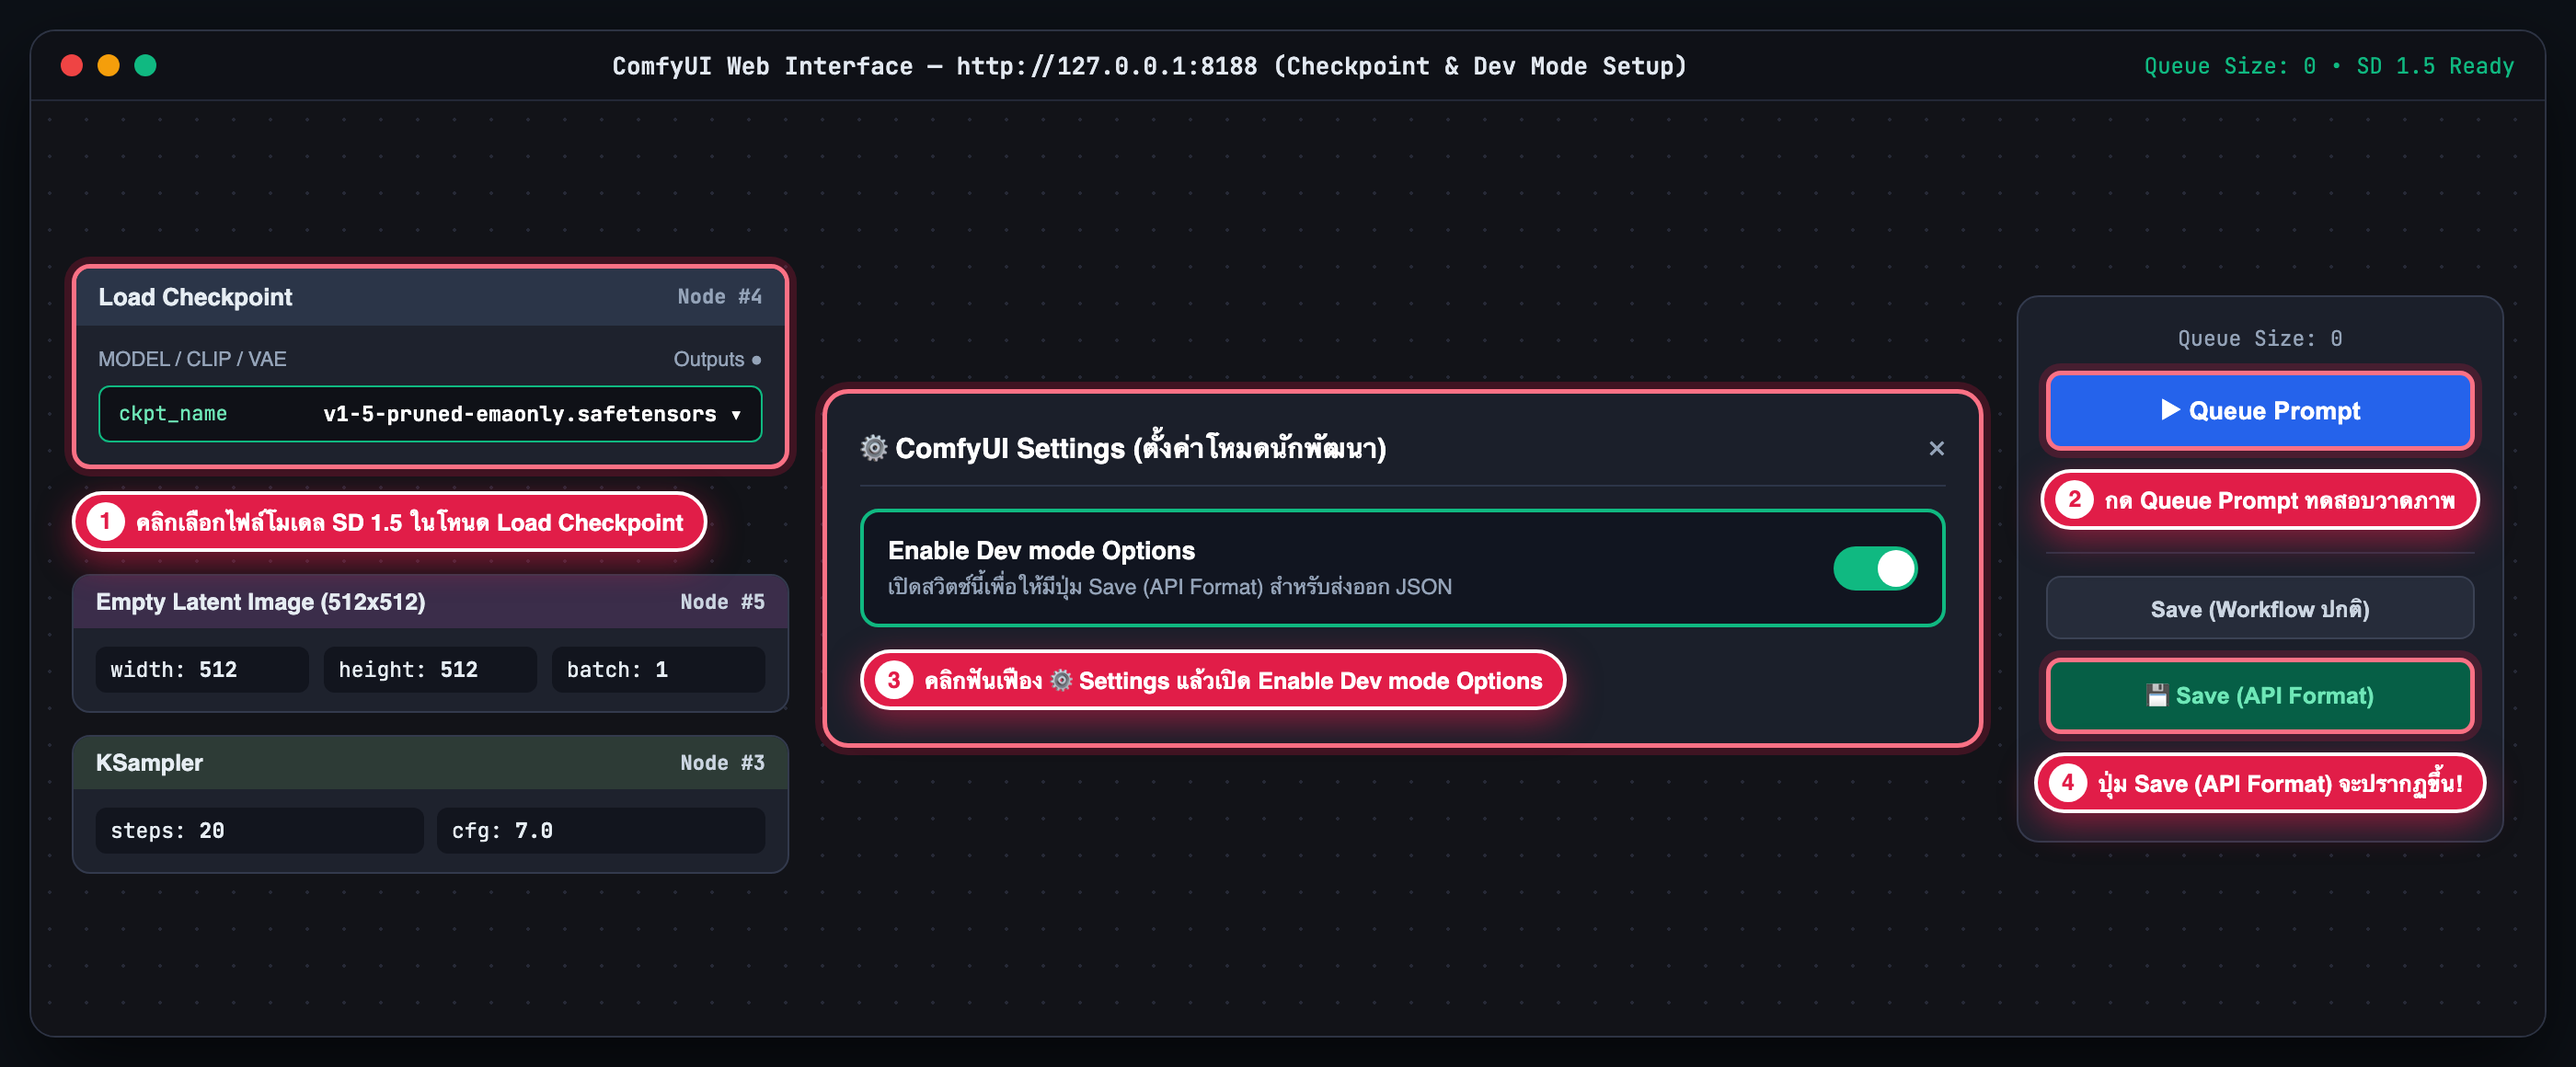
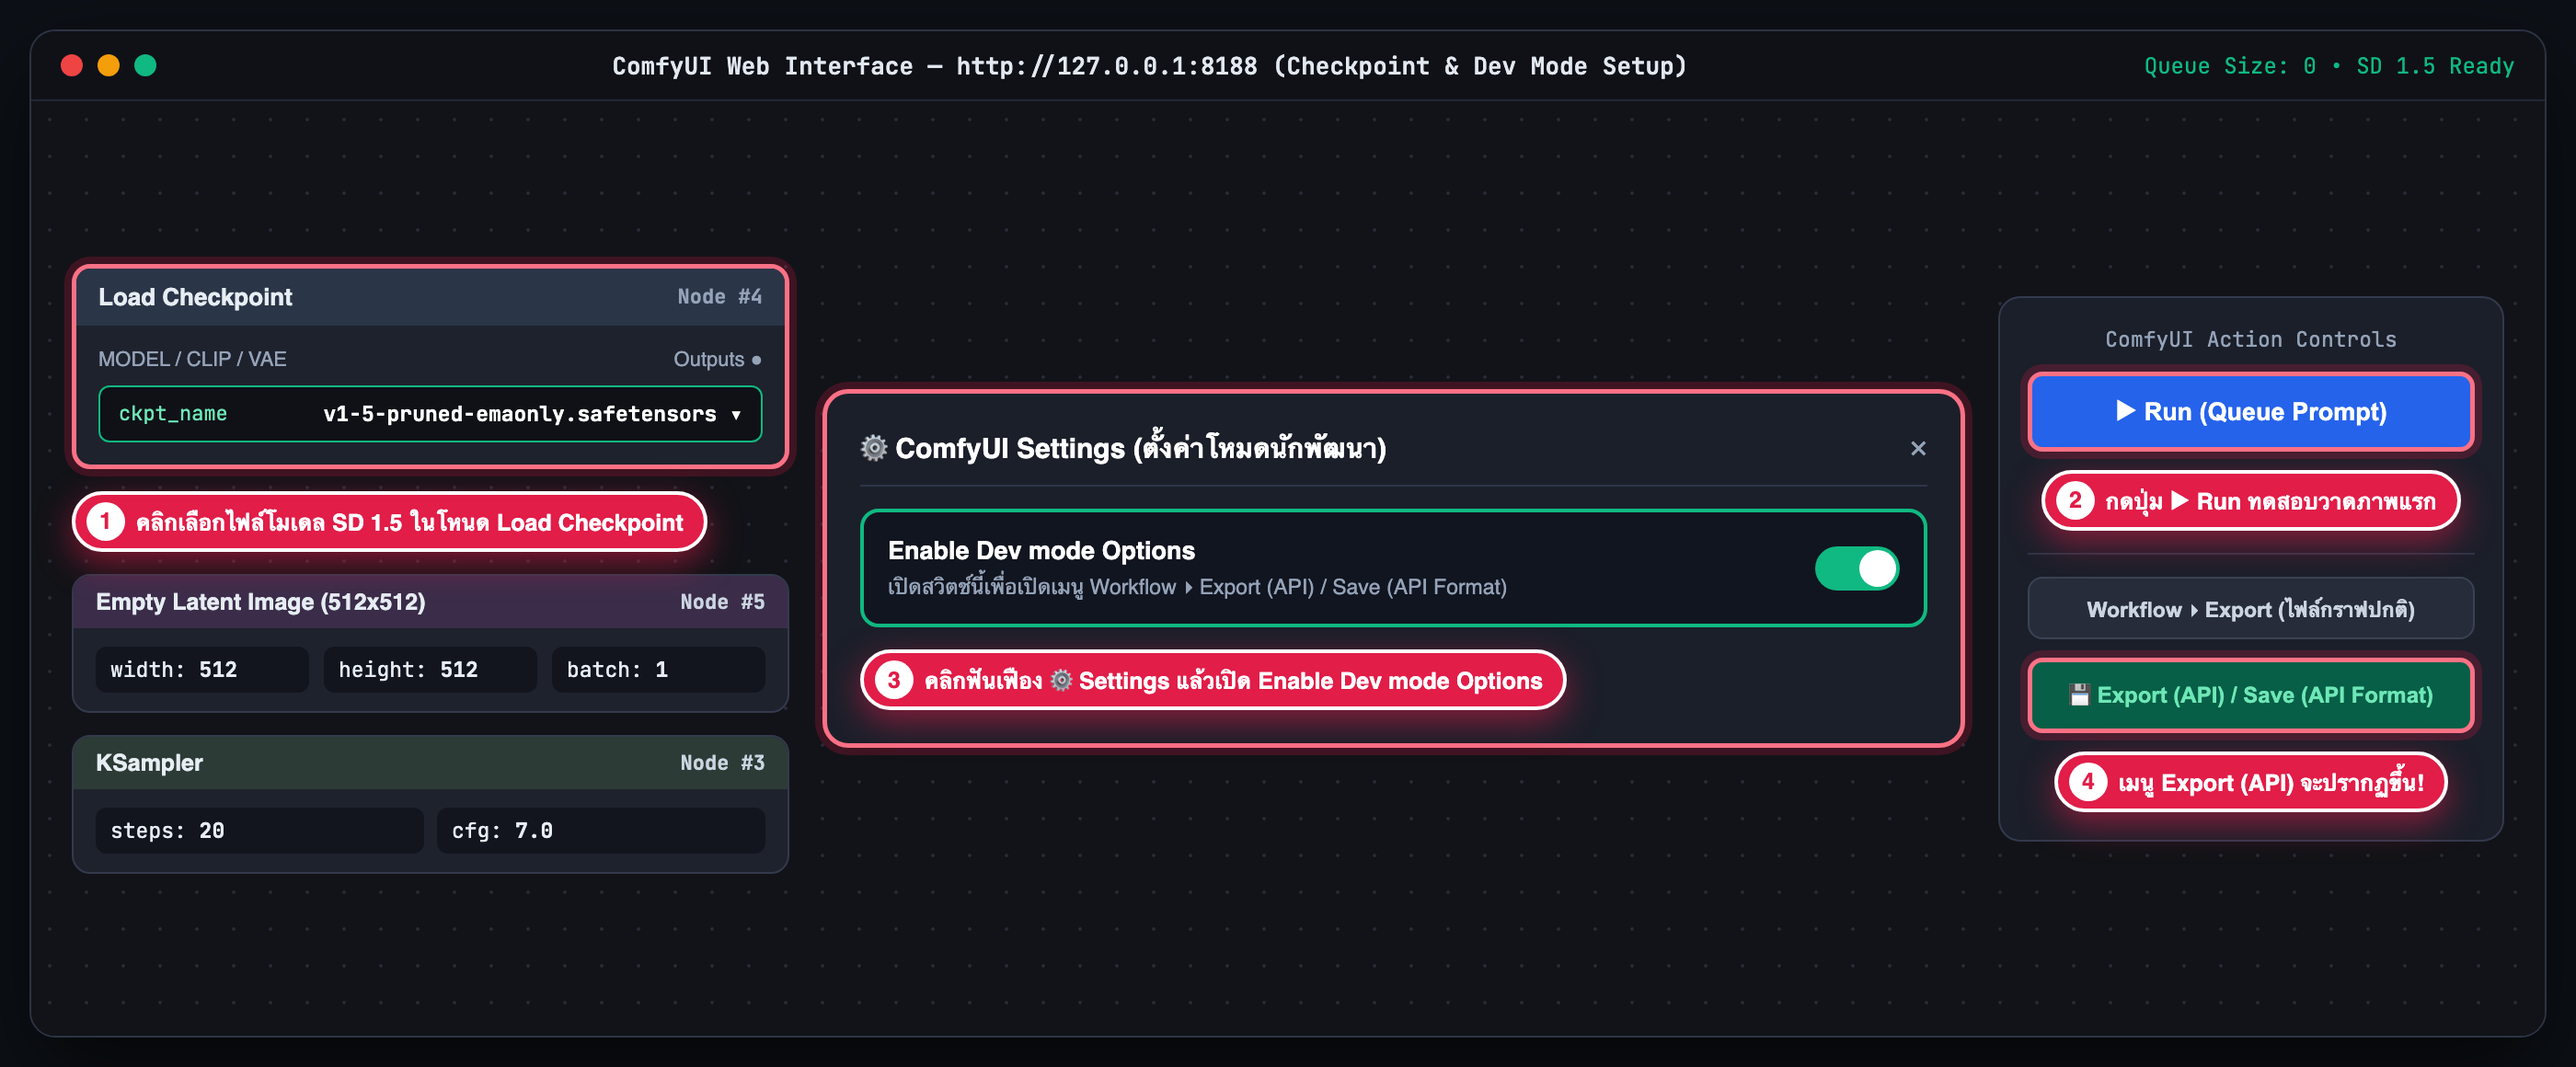
docs: update ComfyUI button labels for modern UI (Run / Workflow -> Export (API))

diff --git a/docs/index.html b/docs/index.html
@@ -1106,13 +1106,13 @@ python main.py --force-fp16</code></pre>
               <strong class="text-slate-900 dark:text-white">ตรวจสอบโหนด <code>Load Checkpoint</code> (หมายเลข <span class="text-rose-600 dark:text-rose-400">①</span>):</strong> เมื่อเปิดเบราว์เซอร์ไปที่ <code class="text-indigo-700 dark:text-indigo-300 font-semibold">http://127.0.0.1:8188</code> ให้คลิกที่ช่อง <code>ckpt_name</code> ในกล่องโหนด <strong>Load Checkpoint</strong> แล้วเลือกไฟล์ <code>v1-5-pruned-emaonly.safetensors</code> (หากเพิ่งวางไฟล์ขณะเปิดโปรแกรมอยู่ ให้กดปุ่ม <code>R</code> บนคีย์บอร์ดเพื่อ Refresh รายชื่อโมเดล)
             </li>
             <li>
-              <strong class="text-slate-900 dark:text-white">กดปุ่ม <code>Queue Prompt</code> (หรือปุ่ม <code>Run</code>) เพื่อทดสอบวาดภาพแรก (หมายเลข <span class="text-rose-600 dark:text-rose-400">②</span>):</strong> ตรวจสอบว่าการ์ดจอสามารถเรนเดอร์ภาพ <code>512x512</code> ออกมาได้ภายใน 2 ถึง 3 วินาทีโดยไม่มีข้อความแจ้งเตือนสีแดง
+              <strong class="text-slate-900 dark:text-white">กดปุ่ม <code>▶ Run</code> (หรือ <code>Queue Prompt</code> ใน UI รุ่นเก่า) เพื่อทดสอบวาดภาพแรก (หมายเลข <span class="text-rose-600 dark:text-rose-400">②</span>):</strong> คลิกปุ่ม <strong><code>▶ Run</code></strong> (หรือกดคีย์ลัด <code>Ctrl + Enter</code>) เพื่อตรวจสอบว่าการ์ดจอสามารถเรนเดอร์ภาพ <code>512x512</code> ออกมาได้ภายใน 2 ถึง 3 วินาทีโดยไม่มีข้อความแจ้งเตือนสีแดง
             </li>
             <li>
-              <strong class="text-slate-900 dark:text-white">คลิกไอคอนฟันเฟือง ⚙ Settings แล้วเปิด <code>Enable Dev mode Options</code> (หมายเลข <span class="text-rose-600 dark:text-rose-400">③</span>):</strong> เปิดหน้าต่างตั้งค่าของ ComfyUI แล้วสับสวิตช์ <strong>Enable Dev mode Options</strong> ให้เป็นสีเขียว
+              <strong class="text-slate-900 dark:text-white">คลิกไอคอนฟันเฟือง ⚙ Settings แล้วเปิด <code>Enable Dev mode Options</code> (หมายเลข <span class="text-rose-600 dark:text-rose-400">③</span>):</strong> เปิดหน้าต่างตั้งค่าของ ComfyUI (มุมซ้ายล่างหรือขวาบน) พิมพ์ค้นหาคำว่า <code>Dev mode</code> แล้วสับสวิตช์ <strong>Enable Dev mode Options</strong> ให้เปิดใช้งาน
             </li>
             <li>
-              <strong class="text-slate-900 dark:text-white">สังเกตปุ่ม <code>Save (API Format)</code> (หรือเมนู <code>Workflow → Export (API)</code>) ที่ปรากฏขึ้นมา (หมายเลข <span class="text-rose-600 dark:text-rose-400">④</span>):</strong> ปุ่มนี้จะใช้ในช่วงบ่าย (Module 3 และ 4) สำหรับส่งออกกราฟโหนดเป็นไฟล์ JSON ให้โค้ด Python สั่งรันอัตโนมัติ
+              <strong class="text-slate-900 dark:text-white">ตรวจสอบเมนูส่งออกไฟล์ API <code>Workflow → Export (API)</code> หรือปุ่ม <code>Save (API Format)</code> (หมายเลข <span class="text-rose-600 dark:text-rose-400">④</span>):</strong> เมื่อเปิด Dev Mode แล้ว ในหน้า UI รุ่นใหม่จะมีคำสั่ง <strong><code>Workflow → Export (API)</code></strong> ที่เมนูมุมซ้ายบน (หรือปุ่ม <code>Save (API Format)</code> ใน UI รุ่นเก่า) สำหรับใช้ส่งออกกราฟโหนดเป็นไฟล์ JSON ในช่วงบ่าย (Module 3 และ 4)
             </li>
           </ol>
 
@@ -1120,17 +1120,17 @@ python main.py --force-fp16</code></pre>
           <figure class="mt-4 rounded-xl overflow-hidden border border-slate-200 dark:border-slate-800 bg-slate-950 shadow-sm">
             <img
               src="./images/comfyui-webui-devmode.png"
-              alt="หน้าจอเว็บ ComfyUI ที่พอร์ต 8188 แสดงโหนด Load Checkpoint ปุ่ม Queue Prompt หน้าต่าง Settings เปิด Enable Dev mode Options และปุ่ม Save (API Format)"
+              alt="หน้าจอเว็บ ComfyUI ที่พอร์ต 8188 แสดงโหนด Load Checkpoint ปุ่ม Run (Queue Prompt) หน้าต่าง Settings เปิด Enable Dev mode Options และเมนู Export (API)"
               width="1400"
               height="580"
               loading="lazy"
               class="ui-screenshot-img cursor-zoom-in"
               data-zoom-src="./images/comfyui-webui-devmode.png"
-              data-zoom-caption="ขั้นตอนที่ 4.4: หน้าเว็บ ComfyUI (http://127.0.0.1:8188) แสดงการเลือก Checkpoint และการเปิด Enable Dev mode Options"
+              data-zoom-caption="ขั้นตอนที่ 4.4: หน้าเว็บ ComfyUI (http://127.0.0.1:8188) แสดงการเลือก Checkpoint ปุ่ม Run และการเปิด Enable Dev mode Options"
             />
             <figcaption class="px-4 py-2.5 bg-slate-100 dark:bg-slate-900 border-t border-slate-200 dark:border-slate-800 flex items-center justify-between gap-2 text-xs text-slate-600 dark:text-slate-400">
-              <span><strong>ภาพที่ 4.2:</strong> หน้าจอเว็บ ComfyUI (<code>http://127.0.0.1:8188</code>) แสดงตำแหน่งเลือกโมเดลและการเปิดปุ่ม <code>Save (API Format)</code></span>
-              <button type="button" class="zoom-trigger-btn text-indigo-600 dark:text-indigo-400 font-semibold hover:underline shrink-0" data-zoom-src="./images/comfyui-webui-devmode.png" data-zoom-caption="ขั้นตอนที่ 4.4: หน้าเว็บ ComfyUI (http://127.0.0.1:8188) แสดงการเลือก Checkpoint และการเปิด Enable Dev mode Options">
+              <span><strong>ภาพที่ 4.2:</strong> หน้าจอเว็บ ComfyUI (<code>http://127.0.0.1:8188</code>) แสดงปุ่ม <code>▶ Run</code> (<code>Queue Prompt</code>) และการเปิดเมนู <code>Export (API)</code> / <code>Save (API Format)</code></span>
+              <button type="button" class="zoom-trigger-btn text-indigo-600 dark:text-indigo-400 font-semibold hover:underline shrink-0" data-zoom-src="./images/comfyui-webui-devmode.png" data-zoom-caption="ขั้นตอนที่ 4.4: หน้าเว็บ ComfyUI (http://127.0.0.1:8188) แสดงการเลือก Checkpoint ปุ่ม Run และการเปิด Enable Dev mode Options">
                 🔍 คลิกขยายภาพเต็มจอ
               </button>
             </figcaption>

diff --git a/docs/labs.html b/docs/labs.html
@@ -663,10 +663,10 @@ display(df_action)</code></pre>
               <input type="checkbox" id="lab-m3-s2" data-lab-id="lab-m3-s2" class="step-check mt-1 w-5 h-5 shrink-0 rounded cursor-pointer" />
               <div class="min-w-0 flex-1">
                 <label for="lab-m3-s2" class="font-bold text-base text-tomera-ink dark:text-tomera-paper cursor-pointer block">
-                  Lab 3.2 — กด Queue Prompt เพื่อเรนเดอร์ภาพแรกและสังเกตเวลาประมวลผล
+                  Lab 3.2 — กดปุ่ม <code>Run</code> (หรือ <code>Queue Prompt</code>) เพื่อเรนเดอร์ภาพแรกและสังเกตเวลาประมวลผล
                 </label>
                 <p class="text-sm text-tomera-muted dark:text-tomera-dim mt-1">
-                  คลิกปุ่ม <strong>Queue Prompt</strong> บนหน้าเว็บ ComfyUI สังเกตกรอบสีเขียวที่วิ่งผ่านโหนด <code>Load Checkpoint -&gt; CLIP -&gt; KSampler -&gt; VAE Decode -&gt; Save Image</code> (ใช้เวลาประมาณ 2–3 วินาทีต่อภาพบน RTX 3050 6GB และ Apple Silicon)
+                  คลิกปุ่ม <strong><code>▶ Run</code></strong> (หรือกดคีย์ลัด <code>Ctrl + Enter</code> / ใน UI รุ่นเก่าจะเขียนว่า <code>Queue Prompt</code>) บนหน้าเว็บ ComfyUI สังเกตกรอบสีเขียวที่วิ่งผ่านโหนด <code>Load Checkpoint -&gt; CLIP -&gt; KSampler -&gt; VAE Decode -&gt; Save Image</code> (ใช้เวลาประมาณ 2–3 วินาทีต่อภาพบน RTX 3050 6GB และ Apple Silicon)
                 </p>
               </div>
             </div>
@@ -678,10 +678,10 @@ display(df_action)</code></pre>
               <input type="checkbox" id="lab-m3-s3" data-lab-id="lab-m3-s3" class="step-check mt-1 w-5 h-5 shrink-0 rounded cursor-pointer" />
               <div class="min-w-0 flex-1">
                 <label for="lab-m3-s3" class="font-bold text-base text-tomera-ink dark:text-tomera-paper cursor-pointer block">
-                  Lab 3.3 — เปิด Developer Mode และส่งออกไฟล์ <code>Save (API Format)</code>
+                  Lab 3.3 — เปิด Developer Mode และส่งออกไฟล์ JSON สำหรับ API (<code>Workflow → Export (API)</code>)
                 </label>
                 <p class="text-sm text-tomera-muted dark:text-tomera-dim mt-1">
-                  คลิกไอคอนรูปเฟือง (Settings) มุมขวาบนของ ComfyUI ติ๊กเปิด <strong>Enable Dev mode Options</strong> จากนั้นกดปุ่ม <strong>Save (API Format)</strong> แล้วเปิดเปรียบเทียบกับไฟล์ <code>03-comfyui-workflows/sd15_txt2img_api.json</code> ใน JupyterLab
+                  คลิกไอคอนรูปเฟือง <strong>⚙ Settings</strong> (มุมซ้ายล่างหรือขวาบนของ ComfyUI) ค้นหาคำว่า <code>Dev Mode</code> แล้วเปิดสวิตช์ <strong>Enable Dev mode Options</strong> จากนั้นไปที่เมนูมุมซ้ายบนเลือก <strong><code>Workflow → Export (API)</code></strong> (หรือปุ่ม <code>Save (API Format)</code> ใน UI รุ่นเก่า) แล้วเปิดเปรียบเทียบกับไฟล์ <code>03-comfyui-workflows/sd15_txt2img_api.json</code> ใน JupyterLab
                 </p>
               </div>
             </div>
